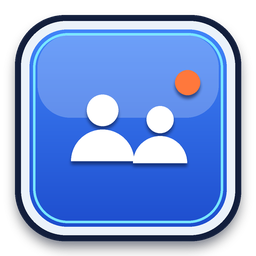
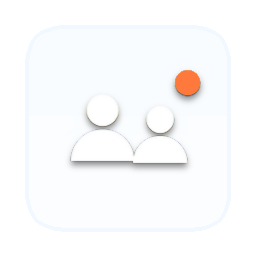
Smaller see-through glass HUD buttons
Peter asked for smaller, transparent glass-style icons. Tools/glass_badges.py keeps each glyph and
replaces the solid blue tile with a frosted, see-through one (originals kept in UI/BadgesSolid).
Main, action, troop and ghost buttons are about 25% smaller.

Claude-Session: https://claude.ai/code/session_01GKWtHZHG8edstZffBYRzEW

diff --git a/Assets/Emberhold/Scripts/UI/HUD.cs b/Assets/Emberhold/Scripts/UI/HUD.cs
@@ -69,8 +69,8 @@ namespace Emberhold
             foreach (var key in new[] { "food", "water", "energy", "steel", "coins", "people" })
                 resourceTexts[key] = ResourceChip(res, key);
 
-            var menuBtn = UIKit.IconButton(root, "icon_menu", null, 104, ToggleMenu, "blue");
-            UIKit.Anchor(menuBtn.GetComponent<RectTransform>(), new Vector2(1, 1), new Vector2(1, 1), new Vector2(-30, -30), new Vector2(104, 104));
+            var menuBtn = UIKit.IconButton(root, "icon_menu", null, 84, ToggleMenu, "blue");
+            UIKit.Anchor(menuBtn.GetComponent<RectTransform>(), new Vector2(1, 1), new Vector2(1, 1), new Vector2(-30, -30), new Vector2(84, 84));
 
             // Builders: how many upgrades can run at once (busy / total)
             var bld = UIKit.Pill("Builders", root).rectTransform;
@@ -112,13 +112,13 @@ namespace Emberhold
             // Bottom-right: round icon buttons
             var menu = UIKit.Rect("MainButtons", root);
             mainButtons = menu;
-            UIKit.Anchor(menu, new Vector2(1, 0), new Vector2(1, 0), new Vector2(-30, 40), new Vector2(170, 720));
-            var b1 = UIKit.IconButton(menu, "icon_build", "Build", 150, () => TogglePanel(BuildingCategory.Economy), "green");
-            UIKit.Anchor(b1.GetComponent<RectTransform>(), new Vector2(0.5f, 1), new Vector2(0.5f, 1), Vector2.zero, new Vector2(150, 190));
-            var b2 = UIKit.IconButton(menu, "icon_defenses", "Defenses", 150, () => TogglePanel(BuildingCategory.Defense), "red");
-            UIKit.Anchor(b2.GetComponent<RectTransform>(), new Vector2(0.5f, 1), new Vector2(0.5f, 1), new Vector2(0, -200), new Vector2(150, 190));
-            var b3 = UIKit.IconButton(menu, "icon_army", "Army", 150, () => TogglePanel(BuildingCategory.Army), "yellow");
-            UIKit.Anchor(b3.GetComponent<RectTransform>(), new Vector2(0.5f, 1), new Vector2(0.5f, 1), new Vector2(0, -400), new Vector2(150, 190));
+            UIKit.Anchor(menu, new Vector2(1, 0), new Vector2(1, 0), new Vector2(-30, 40), new Vector2(130, 470));
+            var b1 = UIKit.IconButton(menu, "icon_build", "Build", 108, () => TogglePanel(BuildingCategory.Economy), "green");
+            UIKit.Anchor(b1.GetComponent<RectTransform>(), new Vector2(0.5f, 1), new Vector2(0.5f, 1), Vector2.zero, new Vector2(112, 142));
+            var b2 = UIKit.IconButton(menu, "icon_defenses", "Defenses", 108, () => TogglePanel(BuildingCategory.Defense), "red");
+            UIKit.Anchor(b2.GetComponent<RectTransform>(), new Vector2(0.5f, 1), new Vector2(0.5f, 1), new Vector2(0, -156), new Vector2(112, 142));
+            var b3 = UIKit.IconButton(menu, "icon_army", "Army", 108, () => TogglePanel(BuildingCategory.Army), "yellow");
+            UIKit.Anchor(b3.GetComponent<RectTransform>(), new Vector2(0.5f, 1), new Vector2(0.5f, 1), new Vector2(0, -312), new Vector2(112, 142));
             nightButton = UIKit.IconButton(menu, "night", "Night", 110, () => gm.Cycle.StartNightNow(), "blue");
             UIKit.Anchor(nightButton.GetComponent<RectTransform>(), new Vector2(0.5f, 1), new Vector2(0.5f, 1), new Vector2(0, -600), new Vector2(110, 150));
             nightButton.gameObject.SetActive(false);   // Peter: no night mode; dinos just wander in one at a time
@@ -146,10 +146,10 @@ namespace Emberhold
             ghostButtons.sizeDelta = new Vector2(420, 110);
             ghostOk = UIKit.SkinButton(ghostButtons, "Build", 32, () => input.ConfirmPlacement(), "green");
             UIKit.Anchor(ghostOk.GetComponent<RectTransform>(), new Vector2(0, 0.5f), new Vector2(0, 0.5f), Vector2.zero, new Vector2(180, 100));
-            var rot = UIKit.IconButton(ghostButtons, "icon_rotate", null, 100, () => input.RotateCurrent(), "blue");
-            UIKit.Anchor(rot.GetComponent<RectTransform>(), new Vector2(0.5f, 0.5f), new Vector2(0.5f, 0.5f), new Vector2(40, 0), new Vector2(100, 100));
-            var cancel = UIKit.IconButton(ghostButtons, "icon_close", null, 100, () => input.CancelPlacement(), "red");
-            UIKit.Anchor(cancel.GetComponent<RectTransform>(), new Vector2(1, 0.5f), new Vector2(1, 0.5f), Vector2.zero, new Vector2(100, 100));
+            var rot = UIKit.IconButton(ghostButtons, "icon_rotate", null, 84, () => input.RotateCurrent(), "blue");
+            UIKit.Anchor(rot.GetComponent<RectTransform>(), new Vector2(0.5f, 0.5f), new Vector2(0.5f, 0.5f), new Vector2(40, 0), new Vector2(84, 84));
+            var cancel = UIKit.IconButton(ghostButtons, "icon_close", null, 84, () => input.CancelPlacement(), "red");
+            UIKit.Anchor(cancel.GetComponent<RectTransform>(), new Vector2(1, 0.5f), new Vector2(1, 0.5f), Vector2.zero, new Vector2(84, 84));
 
             ghostHint = UIKit.OutlinedLabel(screenRoot, "", 30, TextAnchor.MiddleCenter);
             ghostHint.rectTransform.anchorMin = ghostHint.rectTransform.anchorMax = Vector2.zero;
@@ -469,17 +469,17 @@ namespace Emberhold
             actionBar = UIKit.Rect("ActionBar", root);
             UIKit.Anchor(actionBar, new Vector2(0.5f, 0), new Vector2(0.5f, 0), new Vector2(0, 90), new Vector2(900, 170));
 
-            infoBtn = UIKit.IconButton(actionBar, "icon_info", "Info", 124, () => ShowInfo(input.Selected), "blue");
-            upgradeBtn = UIKit.IconButton(actionBar, "icon_upgrade", "Upgrade", 124, () => ShowUpgrade(input.Selected), "green");
-            repairBtn = UIKit.IconButton(actionBar, "icon_repair_all", "Repair", 124, OnRepairPressed, "yellow");
-            speedBtn = UIKit.IconButton(actionBar, "icon_finish", "Finish", 124, SpeedUp, "yellow");
+            infoBtn = UIKit.IconButton(actionBar, "icon_info", "Info", 96, () => ShowInfo(input.Selected), "blue");
+            upgradeBtn = UIKit.IconButton(actionBar, "icon_upgrade", "Upgrade", 96, () => ShowUpgrade(input.Selected), "green");
+            repairBtn = UIKit.IconButton(actionBar, "icon_repair_all", "Repair", 96, OnRepairPressed, "yellow");
+            speedBtn = UIKit.IconButton(actionBar, "icon_finish", "Finish", 96, SpeedUp, "yellow");
             speedCaption = speedBtn.GetComponentInChildren<Text>();
-            rotateBtn = UIKit.IconButton(actionBar, "icon_rotate", "Rotate", 124, () => input.RotateCurrent(), "blue");
-            removeBtn = UIKit.IconButton(actionBar, "icon_remove", "Remove", 124, OnRemovePressed, "red");
+            rotateBtn = UIKit.IconButton(actionBar, "icon_rotate", "Rotate", 96, () => input.RotateCurrent(), "blue");
+            removeBtn = UIKit.IconButton(actionBar, "icon_remove", "Remove", 96, OnRemovePressed, "red");
             removeCaption = removeBtn.GetComponentInChildren<Text>();
             armyUI = gameObject.AddComponent<ArmyUI>();
             armyUI.Init(gm, input, rig, root);
-            trainBtn = UIKit.IconButton(actionBar, "icon_army", "Train", 124, () => armyUI.ShowTrain(input.Selected), "green");
+            trainBtn = UIKit.IconButton(actionBar, "icon_army", "Train", 96, () => armyUI.ShowTrain(input.Selected), "green");
 
             // cost chips under the Upgrade / Repair buttons
             upgradeCostHolder = CostHolder(upgradeBtn);
@@ -556,7 +556,7 @@ namespace Emberhold
 
         void CloseX(RectTransform panel, System.Action onClose)
         {
-            var x = UIKit.IconButton(panel, "icon_close", null, 84, onClose, "red");
+            var x = UIKit.IconButton(panel, "icon_close", null, 72, onClose, "red");
             UIKit.Anchor(x.GetComponent<RectTransform>(), new Vector2(1, 1), new Vector2(0.5f, 0.5f), new Vector2(-18, -18), new Vector2(84, 84));
         }
 
@@ -623,7 +623,7 @@ namespace Emberhold
             var list = new List<RectTransform>();
             foreach (var b in new[] { trainBtn, infoBtn, upgradeBtn, repairBtn, speedBtn, rotateBtn, removeBtn })
                 if (b.gameObject.activeSelf) list.Add(b.GetComponent<RectTransform>());
-            const float step = 175f;
+            const float step = 140f;
             for (int i = 0; i < list.Count; i++)
             {
                 var r = list[i];

diff --git a/Assets/Emberhold/Scripts/UI/ArmyUI.cs b/Assets/Emberhold/Scripts/UI/ArmyUI.cs
@@ -33,7 +33,7 @@ namespace Emberhold
             header.anchoredPosition = new Vector2(0, -10); header.sizeDelta = new Vector2(-20, 96);
             trainTitle = UIKit.OutlinedLabel(trainPopup, "", 40, TextAnchor.UpperCenter);
             trainTitle.rectTransform.offsetMax = new Vector2(-90, -32);
-            var x = UIKit.IconButton(trainPopup, "icon_close", null, 84, CloseTrain, "red");
+            var x = UIKit.IconButton(trainPopup, "icon_close", null, 72, CloseTrain, "red");
             UIKit.Anchor(x.GetComponent<RectTransform>(), new Vector2(1, 1), new Vector2(0.5f, 0.5f), new Vector2(-18, -18), new Vector2(84, 84));
             rows = UIKit.Rect("Rows", trainPopup);
             UIKit.Anchor(rows, new Vector2(0.5f, 1), new Vector2(0.5f, 1), new Vector2(0, -130), new Vector2(800, 460));
@@ -63,26 +63,26 @@ namespace Emberhold
             xpFill.anchorMin = Vector2.zero; xpFill.anchorMax = new Vector2(0, 1); xpFill.pivot = new Vector2(0, 0.5f); xpFill.offsetMin = xpFill.offsetMax = Vector2.zero;
 
             // ---- Orbital Strike (bottom left, only during an attack) ----
-            strikeBtn = UIKit.IconButton(root, "icon_attack", "Strike", 150, () => { if (!gm.Troops.Strike()) gm.Toast("Strike not ready"); }, "red");
-            UIKit.Anchor(strikeBtn.GetComponent<RectTransform>(), new Vector2(0, 0), new Vector2(0, 0), new Vector2(34, 360), new Vector2(150, 190));
+            strikeBtn = UIKit.IconButton(root, "icon_attack", "Strike", 108, () => { if (!gm.Troops.Strike()) gm.Toast("Strike not ready"); }, "red");
+            UIKit.Anchor(strikeBtn.GetComponent<RectTransform>(), new Vector2(0, 0), new Vector2(0, 0), new Vector2(34, 300), new Vector2(112, 142));
             strikeCaption = strikeBtn.GetComponentInChildren<Text>();
 
             // ---- Troop orders (bottom left): select all, call home, done. Tap units / ground for the rest ----
-            troopsBtn = UIKit.IconButton(root, "icon_select_all", "Troops", 120, () => input.SelectAllUnits(), "blue");
-            UIKit.Anchor(troopsBtn.GetComponent<RectTransform>(), new Vector2(0, 0), new Vector2(0, 0), new Vector2(34, 210), new Vector2(120, 140));
-            homeBtn = UIKit.IconButton(root, "icon_recall", "Home", 120, () => input.RecallUnits(), "green");
-            UIKit.Anchor(homeBtn.GetComponent<RectTransform>(), new Vector2(0, 0), new Vector2(0, 0), new Vector2(164, 210), new Vector2(120, 140));
-            doneBtn = UIKit.IconButton(root, "icon_done", "Done", 120, () => input.ClearUnits(), "red");
+            troopsBtn = UIKit.IconButton(root, "icon_select_all", "Troops", 92, () => input.SelectAllUnits(), "blue");
+            UIKit.Anchor(troopsBtn.GetComponent<RectTransform>(), new Vector2(0, 0), new Vector2(0, 0), new Vector2(34, 180), new Vector2(96, 126));
+            homeBtn = UIKit.IconButton(root, "icon_recall", "Home", 92, () => input.RecallUnits(), "green");
+            UIKit.Anchor(homeBtn.GetComponent<RectTransform>(), new Vector2(0, 0), new Vector2(0, 0), new Vector2(138, 180), new Vector2(96, 126));
+            doneBtn = UIKit.IconButton(root, "icon_done", "Done", 92, () => input.ClearUnits(), "red");
 
             // ---- Repair all (same corner as Strike, which only shows during an attack) ----
-            repairAllBtn = UIKit.IconButton(root, "icon_repair_all", "Repair all", 150, () =>
+            repairAllBtn = UIKit.IconButton(root, "icon_repair_all", "Repair all", 108, () =>
             {
                 if (Time.unscaledTime < repairAllArmedUntil) { repairAllArmedUntil = 0f; gm.RepairAll(); return; }
                 repairAllArmedUntil = Time.unscaledTime + 3f;
                 gm.Toast("Repair everything for " + gm.RepairAllCost() + ". Tap again");
             }, "yellow");
-            UIKit.Anchor(repairAllBtn.GetComponent<RectTransform>(), new Vector2(0, 0), new Vector2(0, 0), new Vector2(34, 360), new Vector2(150, 190));
-            UIKit.Anchor(doneBtn.GetComponent<RectTransform>(), new Vector2(0, 0), new Vector2(0, 0), new Vector2(294, 210), new Vector2(120, 140));
+            UIKit.Anchor(repairAllBtn.GetComponent<RectTransform>(), new Vector2(0, 0), new Vector2(0, 0), new Vector2(34, 300), new Vector2(112, 142));
+            UIKit.Anchor(doneBtn.GetComponent<RectTransform>(), new Vector2(0, 0), new Vector2(0, 0), new Vector2(242, 180), new Vector2(96, 126));
         }
 
         public void ShowTrain(Building b)

diff --git a/Tools/glass_badges.py b/Tools/glass_badges.py
@@ -1,0 +1,62 @@
+"""Turn the solid blue HUD badges into small 'glass' buttons (Peter: transparent, glass effect).
+Keeps each glyph (with its own colour), drops the blue tile, and draws a frosted see-through tile.
+Usage: python3 glass_badges.py <badge dir>   (overwrites icon_*.png, keeps originals in <dir>/../BadgesSolid)
+"""
+import sys, os, glob, shutil, numpy as np
+from PIL import Image
+from scipy import ndimage
+
+def glass(src):
+    a = np.asarray(Image.open(src).convert('RGBA')).astype(np.float32)
+    h, w = a.shape[:2]
+    r, g, b, al = a[..., 0], a[..., 1], a[..., 2], a[..., 3]
+    tile = al > 128
+    inner = ndimage.binary_erosion(tile, iterations=int(w * 0.12))
+    # glyph coverage: the tile is strongly blue (b - r ~ 100+), glyphs are not
+    cov = np.clip((95 - (b - r)) / 70.0, 0, 1) * inner
+    cov = ndimage.gaussian_filter(cov, 0.6)
+    bg = np.array([60, 110, 230], np.float32)
+    ca = np.maximum(cov[..., None], 1e-3)
+    rgb = np.clip((a[..., :3] - bg * (1 - ca)) / ca, 0, 255)
+    # pale blue-ish glyph pixels left from the tile become white
+    out = np.zeros((h, w, 4), np.float32)
+    # frosted tile: rounded shape a little inside the old one
+    shape = ndimage.binary_erosion(tile, iterations=int(w * 0.04))
+    soft = np.clip(ndimage.distance_transform_edt(shape) / 1.5, 0, 1)
+    ys = np.linspace(0, 1, h)[:, None]
+    fill = (0.30 - 0.16 * ys) * np.ones((1, w))
+    rim = shape & ~ndimage.binary_erosion(shape, iterations=max(2, int(w * 0.018)))
+    sheen = shape & (np.arange(h)[:, None] < h * 0.47) & ~ndimage.binary_erosion(shape, iterations=int(w * 0.07)) == False
+    tint = np.array([235, 245, 255], np.float32)
+    out[..., :3] = tint
+    alpha = fill * soft
+    alpha = np.where(rim, 0.70, alpha)
+    # soft highlight band over the top half
+    top = shape & (np.arange(h)[:, None] < h * 0.45)
+    alpha = np.where(top & ~rim, alpha + 0.07, alpha)
+    # glyph drop shadow
+    sh = ndimage.gaussian_filter(ndimage.shift(cov, (w * 0.016, 0), order=1), w * 0.012) * 0.45
+    base_rgb = out[..., :3] * alpha[..., None]
+    base_a = alpha
+    # composite shadow (black) over the glass
+    base_rgb = base_rgb * (1 - sh[..., None])
+    base_a = sh + base_a * (1 - sh)
+    # composite glyph
+    ga = cov
+    comp_rgb = rgb * ga[..., None] + base_rgb * (1 - ga[..., None])
+    comp_a = ga + base_a * (1 - ga)
+    outc = np.zeros((h, w, 4), np.float32)
+    outc[..., :3] = np.where(comp_a[..., None] > 1e-3, comp_rgb / np.maximum(comp_a[..., None], 1e-3), 0)
+    outc[..., 3] = comp_a * 255
+    return Image.fromarray(np.clip(outc, 0, 255).astype(np.uint8))
+
+if __name__ == '__main__':
+    d = sys.argv[1]
+    keep = os.path.join(os.path.dirname(os.path.abspath(d)), 'BadgesSolid')
+    os.makedirs(keep, exist_ok=True)
+    for f in sorted(glob.glob(os.path.join(d, 'icon_*.png'))):
+        solid = os.path.join(keep, os.path.basename(f))
+        if not os.path.exists(solid):
+            shutil.copy(f, solid)
+        glass(solid).save(f)
+        print(os.path.basename(f))

diff --git a/Assets/Emberhold/Scripts/UI/UIKit.cs b/Assets/Emberhold/Scripts/UI/UIKit.cs
@@ -180,7 +180,7 @@ namespace Emberhold
         public static UnityEngine.UI.Button IconButton(Transform parent, string icon, string caption, float size, Action onClick, string color = "blue")
         {
             var r = Rect("IconButton_" + icon, parent);
-            r.sizeDelta = new Vector2(size, size + (string.IsNullOrEmpty(caption) ? 0 : 40));
+            r.sizeDelta = new Vector2(size, size + (string.IsNullOrEmpty(caption) ? 0 : 34));
             var hit = r.gameObject.AddComponent<Image>();
             hit.color = new Color(0, 0, 0, 0); // invisible hit area
             // near-future badge icons (Resources/UI/Badges/icon_*.png) are complete buttons on their own
@@ -207,7 +207,7 @@ namespace Emberhold
             }
             if (!string.IsNullOrEmpty(caption))
             {
-                var t = OutlinedLabel(r, caption, 26, TextAnchor.LowerCenter);
+                var t = OutlinedLabel(r, caption, 22, TextAnchor.LowerCenter);
                 t.rectTransform.offsetMin = new Vector2(-30, -6);
                 t.rectTransform.offsetMax = new Vector2(30, 0);
                 t.horizontalOverflow = HorizontalWrapMode.Overflow;
